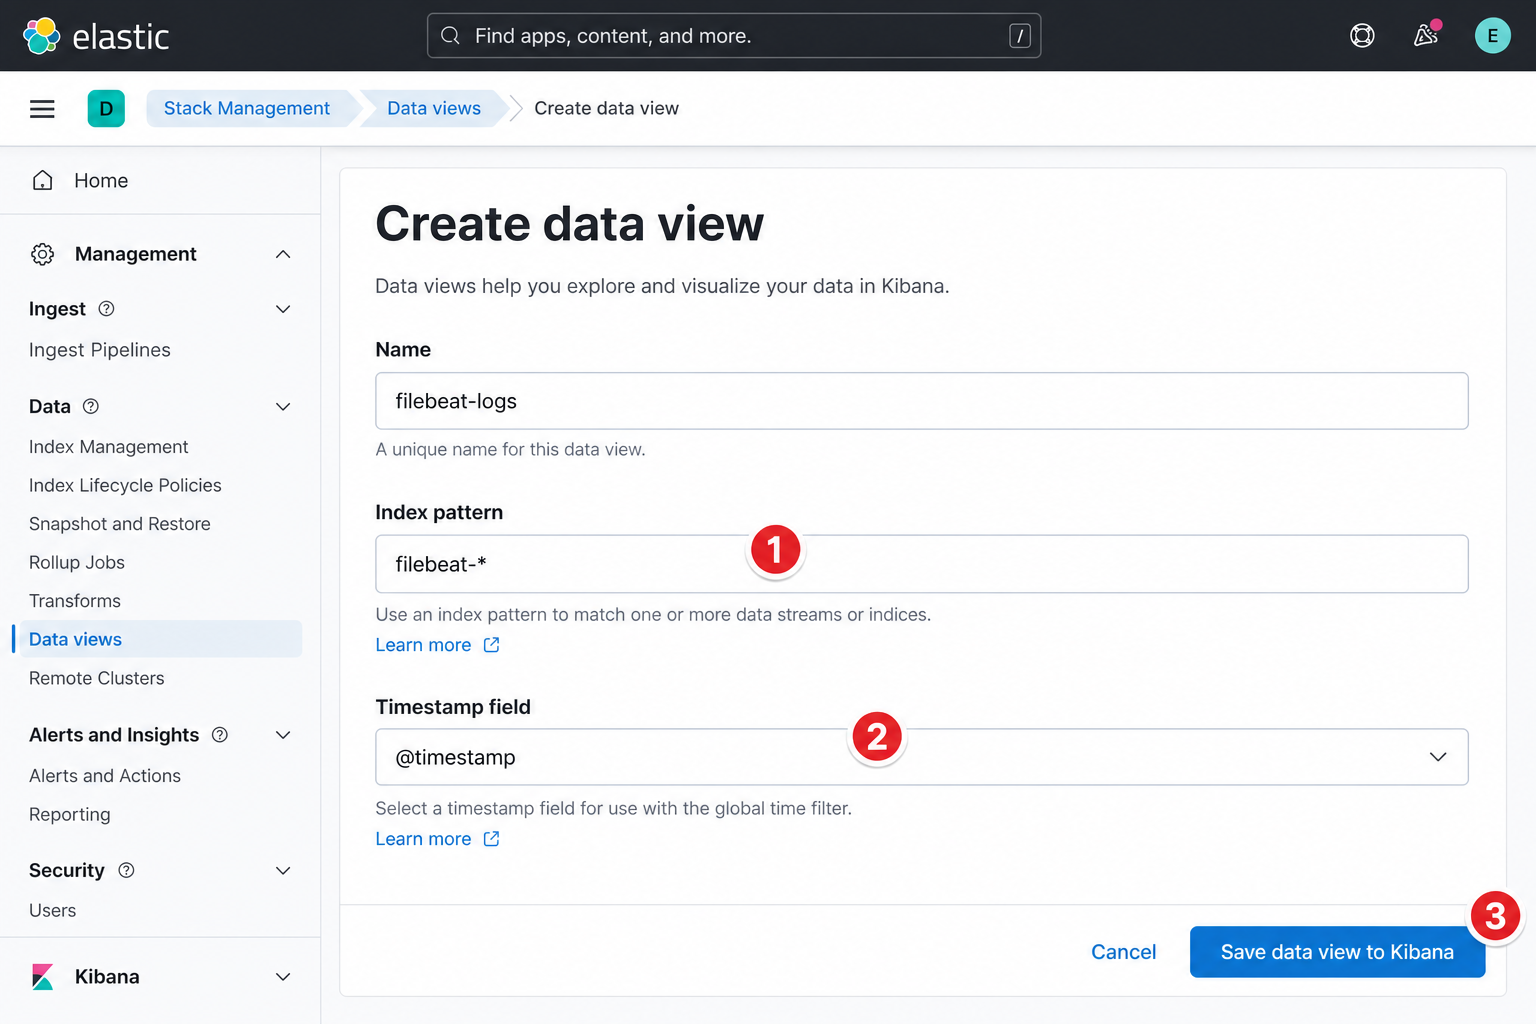
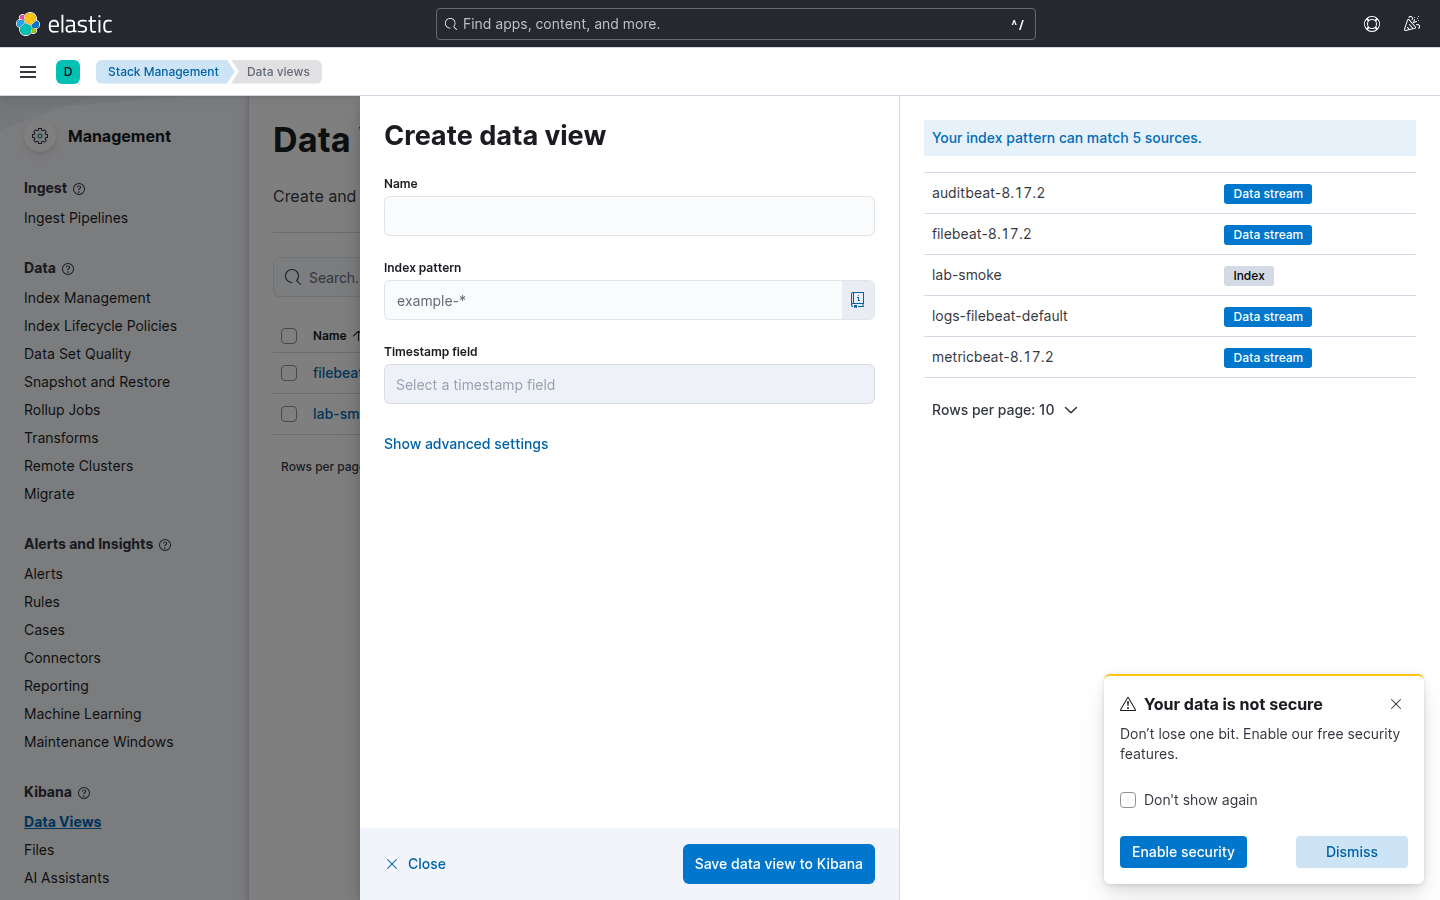
Sustituir mockups por capturas reales de Kibana 8.17.2.
Añade script npm para regenerar pantallas del stack local e integra las imágenes en labs y guía Discover.

diff --git a/docs/imagenes/README.md b/docs/imagenes/README.md
@@ -1,0 +1,30 @@
+# Capturas de interfaz (Kibana 8.17.2)
+
+Imágenes **reales** del stack local (`docker compose --profile beats up -d`), no mockups. Se regeneran con:
+
+```bash
+npm install          # una vez; requiere Google Chrome en el PATH
+npm run capture-screenshots
+```
+
+Requisitos: Elasticsearch y Kibana en marcha, perfil `beats` activo para capturas de `filebeat-*`.
+
+## Catálogo
+
+| Archivo | Pantalla | Labs / docs |
+|---------|----------|-------------|
+| `kibana-discover-sin-data-view.png` | Discover sin data view | M01-01, [guia Discover](../guia-kibana-discover-data-view.md) |
+| `kibana-crear-data-view.png` | Formulario Create data view | M01-01, guía Discover |
+| `kibana-data-views-list.png` | Stack Management → Data Views | guía Discover, M02-02 |
+| `kibana-discover-con-eventos.png` | Discover con `filebeat-*` y KQL | M01-01, M01-02, M03+, guía Discover |
+| `kibana-discover-fila-expandida.png` | Discover — tabla de documentos | guía Discover (expandir fila) |
+| `kibana-discover-lab-smoke.png` | Discover — índice `lab-smoke` | M02-02 |
+| `kibana-index-management.png` | Index Management | M02-02, M01-02 |
+| `kibana-lens-editor.png` | Lens (editor vacío) | M05-01 |
+| `kibana-dashboards-list.png` | Biblioteca de dashboards | M05-02, M10-04 |
+| `kibana-observability-alerts.png` | Observability → Alerts | M08, M05-04 |
+| `kibana-alerting-rules.png` | Stack Management → Rules | M08 |
+| `kibana-saved-objects.png` | Saved Objects | M05-04, M12-04 |
+| `kibana-stack-monitoring.png` | Stack Monitoring (estado inicial) | M10-01 |
+
+Script: [`scripts/capture-kibana-screenshots.mjs`](../../scripts/capture-kibana-screenshots.mjs).

diff --git a/docs/guia-kibana-discover-data-view.md b/docs/guia-kibana-discover-data-view.md
@@ -2,6 +2,8 @@
 
 Guía visual para el **paso 7 de M01-01** y cualquier ejercicio que use Discover. No asume que hayas usado Kibana antes.
 
+> Capturas **reales** del stack 8.17.2 local. Catálogo completo: [imagenes/README.md](imagenes/README.md). Regenerar: `npm run capture-screenshots`.
+
 > **Data view** (antes *index pattern*): nombre lógico que apunta a uno o más índices o data streams en Elasticsearch (p. ej. `filebeat-*`). Discover no muestra documentos hasta que exista al menos uno con campo de tiempo.
 
 Documentación oficial: [Data views](https://www.elastic.co/docs/explore-analyze/data-visualization/data-views) · [Discover](https://www.elastic.co/docs/explore-analyze/discover).
@@ -38,7 +40,7 @@ URL típica: `https://….app.github.dev` (puerto 5601 reenviado). No uses `loca
 1. Clic en el menú **☰** (arriba a la izquierda).
 2. Sección **Analytics** → **Discover**.
 
-![Discover sin data view — botón Create a data view](imagenes/kibana/kibana-discover-sin-data-view.png)
+![Discover sin data view — captura real del stack 8.17.2](imagenes/kibana/kibana-discover-sin-data-view.png)
 
 **Qué verás**
 
@@ -60,9 +62,11 @@ Clic en **Create a data view**.
 
 ☰ → **Management** → **Stack Management** → **Kibana** → **Data Views** → **Create data view**.
 
+![Lista de data views — captura real](imagenes/kibana/kibana-data-views-list.png)
+
 ### Rellenar el formulario
 
-![Formulario Create data view](imagenes/kibana/kibana-crear-data-view.png)
+![Formulario Create data view — captura real del stack 8.17.2](imagenes/kibana/kibana-crear-data-view.png)
 
 | Campo | Valor | Notas |
 |-------|-------|-------|
@@ -78,7 +82,7 @@ Si Kibana avisa de que no hay coincidencias: vuelve a terminal y confirma `_coun
 
 ## 4 — Ver eventos en Discover
 
-![Discover con eventos y filtro KQL](imagenes/kibana/kibana-discover-con-eventos.png)
+![Discover con eventos y filtro KQL — captura real](imagenes/kibana/kibana-discover-con-eventos.png)
 
 1. **Selector de data view** (arriba izquierda): elige el que acabas de crear.
 2. **Time picker** (arriba, calendario / *Last 15 minutes*): elige **Last 15 minutes** o **Last 1 hour**.  
@@ -97,6 +101,8 @@ Si Kibana avisa de que no hay coincidencias: vuelve a terminal y confirma `_coun
    | **Documento completo** | Con la fila expandida, pestaña **JSON** o **Table** (según versión) para ver todos los campos. |
 
    Localiza al menos: `message`, `log_source`, `host.name`, `agent.type`.
+
+   ![Discover — tabla de documentos (captura real; expande una fila con la flecha `>`)](imagenes/kibana/kibana-discover-fila-expandida.png)
 
 Compara el `message` con la última línea de `tail infra/samples/logs/app.log` del paso 6.
 

diff --git a/labs/M01-arquitectura-stack/M01-01-arranque-flujo-completo.md b/labs/M01-arquitectura-stack/M01-01-arranque-flujo-completo.md
@@ -125,7 +125,7 @@ En `_source.message` deberías reconocer el mismo texto (o muy similar) que vist
 
 ### Paso 7 — Ver el mismo flujo en Kibana (visualizar)
 
-Guía detallada con capturas de referencia: [docs/guia-kibana-discover-data-view.md](../../docs/guia-kibana-discover-data-view.md).
+Guía detallada con capturas reales del stack: [docs/guia-kibana-discover-data-view.md](../../docs/guia-kibana-discover-data-view.md) · [catálogo de imágenes](../../docs/imagenes/README.md).
 
 **7a — Comprobar Kibana y datos**
 
@@ -157,7 +157,7 @@ Un **data view** le dice a Kibana qué índices leer y qué campo usar como tiem
 
 3. **Save data view to Kibana**.
 
-   ![Referencia: pantalla Create data view](../../docs/imagenes/kibana/kibana-crear-data-view.png)
+   ![Create data view — captura real del stack 8.17.2](../../docs/imagenes/kibana/kibana-crear-data-view.png)
 
    Si no aparece `@timestamp` o el patrón no coincide con ningún índice, vuelve al paso 5: Filebeat aún no ha indexado.
 
@@ -171,7 +171,7 @@ Un **data view** le dice a Kibana qué índices leer y qué campo usar como tiem
    - Clic en **`>`** a la izquierda de una fila (el detalle se abre **debajo** de la fila, no siempre hay panel derecho).
    - O en la barra **izquierda** (*Available fields*): añade `host.name` y `agent.type` con **`+`** como columnas.
 
-   ![Referencia aproximada — el layout puede variar en 8.17](../../docs/imagenes/kibana/kibana-discover-con-eventos.png)
+   ![Discover con eventos `demo-app` — captura real](../../docs/imagenes/kibana/kibana-discover-con-eventos.png)
 
 **7f — Confirmar que el flujo sigue vivo**
 

diff --git a/labs/M02-despliegue-stack/M02-02-kibana-discover.md b/labs/M02-despliegue-stack/M02-02-kibana-discover.md
@@ -41,6 +41,8 @@ Repite cada 20 s hasta ver `available` o similar en el JSON.
 4. Ampliar el time picker a **Last 1 year** (el smoke tiene fecha fija).
 5. Filtro KQL: `course.exercise : "M02-01"`.
 
+![Discover con data view `lab-smoke` — captura real](../../docs/imagenes/kibana/kibana-discover-lab-smoke.png)
+
 Debes ver el documento del paso 4 de M02-01. Si no aparece:
 
 ```bash
@@ -54,6 +56,8 @@ Si `curl` sí lo ve y Discover no → problema de data view o rango de tiempo, n
 ### Paso 4 — Stack Management: el índice físico
 
 ☰ → **Management** → **Stack Management** → **Index Management**.
+
+![Index Management — captura real](../../docs/imagenes/kibana/kibana-index-management.png)
 
 Confirma el índice `lab-smoke` con al menos 1 documento.
 

diff --git a/labs/M05-dashboards-kibana/M05-04-saved-objects-y-alertas-vista.md b/labs/M05-dashboards-kibana/M05-04-saved-objects-y-alertas-vista.md
@@ -12,6 +12,8 @@
 
 **Stack Management** → **Saved Objects** → selecciona tus visualizaciones y dashboards `lab-m05-*` → **Export** → descarga `lab-m05-export.ndjson`.
 
+![Saved Objects — captura real](../../docs/imagenes/kibana/kibana-saved-objects.png)
+
 Guárdalo en `labs/M05-dashboards-kibana/` solo si tu formador lo pide (no es obligatorio commitear).
 
 ---
@@ -19,6 +21,8 @@ Guárdalo en `labs/M05-dashboards-kibana/` solo si tu formador lo pide (no es ob
 ### Paso 2 — Regla de umbral (Kibana)
 
 **Observability** → **Alerts** → **Create rule** → **Elasticsearch query**:
+
+![Observability → Alerts — captura real](../../docs/imagenes/kibana/kibana-observability-alerts.png)
 
 - Índice: `filebeat-*`
 - Query: `log_source : "demo-app" and http.response.status_code : 500` (o KQL equivalente)

diff --git a/labs/M10-self-observability/M10-01-stack-monitoring.md b/labs/M10-self-observability/M10-01-stack-monitoring.md
@@ -12,7 +12,9 @@
 
 Kibana → **Stack Management** → **Stack Monitoring** (o **Monitoring** en menú).
 
-Si pide habilitar collection interna, sigue el asistente (en lab single-node puede ser limitado).
+![Stack Monitoring — captura real (estado inicial sin Metricbeat de monitoring)](../../docs/imagenes/kibana/kibana-stack-monitoring.png)
+
+Si pide habilitar collection interna, sigue el asistente (en lab single-node puede ser limitado). La captura muestra el estado **sin datos de monitoring** hasta que lo configures.
 
 ---
 

diff --git a/labs/M05-dashboards-kibana/M05-01-lens-primeros-pasos.md b/labs/M05-dashboards-kibana/M05-01-lens-primeros-pasos.md
@@ -23,6 +23,9 @@ Kibana → **Discover** → data view `filebeat-*` → `log_source : "demo-app"`
 
 1. Con el filtro activo, menú **Inspect** o **Open in Lens** (según build: *Visualize* / *Explore in Lens*).
 2. Tipo sugerido: **Vertical bar** o **Donut**.
+
+![Editor Lens — captura real del stack](../../docs/imagenes/kibana/kibana-lens-editor.png)
+
 3. Métrica: **Count of records**.
 4. Dimensión: `http.response.status_code` (si no existe, usa **Runtime field** o divide por `message : *status=500*` con filtros separados).
 

diff --git a/labs/M01-arquitectura-stack/M01-02-eventos-data-streams-campos.md b/labs/M01-arquitectura-stack/M01-02-eventos-data-streams-campos.md
@@ -80,6 +80,8 @@ En **M06** verás por qué los data streams encajan mejor con ILM; aquí solo co
 
 En Kibana Discover (`filebeat-*`):
 
+![Discover con filtros KQL — captura real del stack](../../docs/imagenes/kibana/kibana-discover-con-eventos.png)
+
 1. `log_source : "demo-app" and message : *ERROR*` — solo errores de la app demo.
 2. `log_source : "demo-app" and message : *status=500*` — respuestas HTTP 500.
 3. Cambia el data view a `lab-contrato` (créalo si hace falta) y busca `message : "contrato manual"`.

diff --git a/labs/M03-recoleccion-beats/README.md b/labs/M03-recoleccion-beats/README.md
@@ -30,7 +30,7 @@
 docker compose -f infra/docker-compose.yml --profile beats up -d
 ```
 
-**Referencia:** [docs/componentes/](../../docs/componentes/README.md)
+**Referencia:** [docs/componentes/](../../docs/componentes/README.md) · Capturas Kibana: [docs/imagenes/](../../docs/imagenes/README.md)
 
 ## Antes de seguir (cierre M03)
 

diff --git a/labs/M05-dashboards-kibana/M05-02-dashboard-logs-operacion.md b/labs/M05-dashboards-kibana/M05-02-dashboard-logs-operacion.md
@@ -42,6 +42,8 @@ Guardar como `lab-m05-latency-avg`.
 
 **Dashboards** → **Create dashboard** → añade los tres paneles → **Save** como `lab-m05-ops-logs`.
 
+![Biblioteca de dashboards — captura real](../../docs/imagenes/kibana/kibana-dashboards-list.png)
+
 Anota la URL (incluye el id del objeto).
 
 ---

diff --git a/labs/M08-alerting-watcher/M08-01-regla-umbral-metricas.md b/labs/M08-alerting-watcher/M08-01-regla-umbral-metricas.md
@@ -18,6 +18,8 @@
 
 **Alerts** → **Create rule** → **Metric threshold**:
 
+![Rules en Stack Management — captura real](../../docs/imagenes/kibana/kibana-alerting-rules.png)
+
 - Metric: average `docker.cpu.total.pct`
 - Group by: `container.name`
 - Threshold: **above 0.5** (ajusta: 50 % si el campo es 0–1)